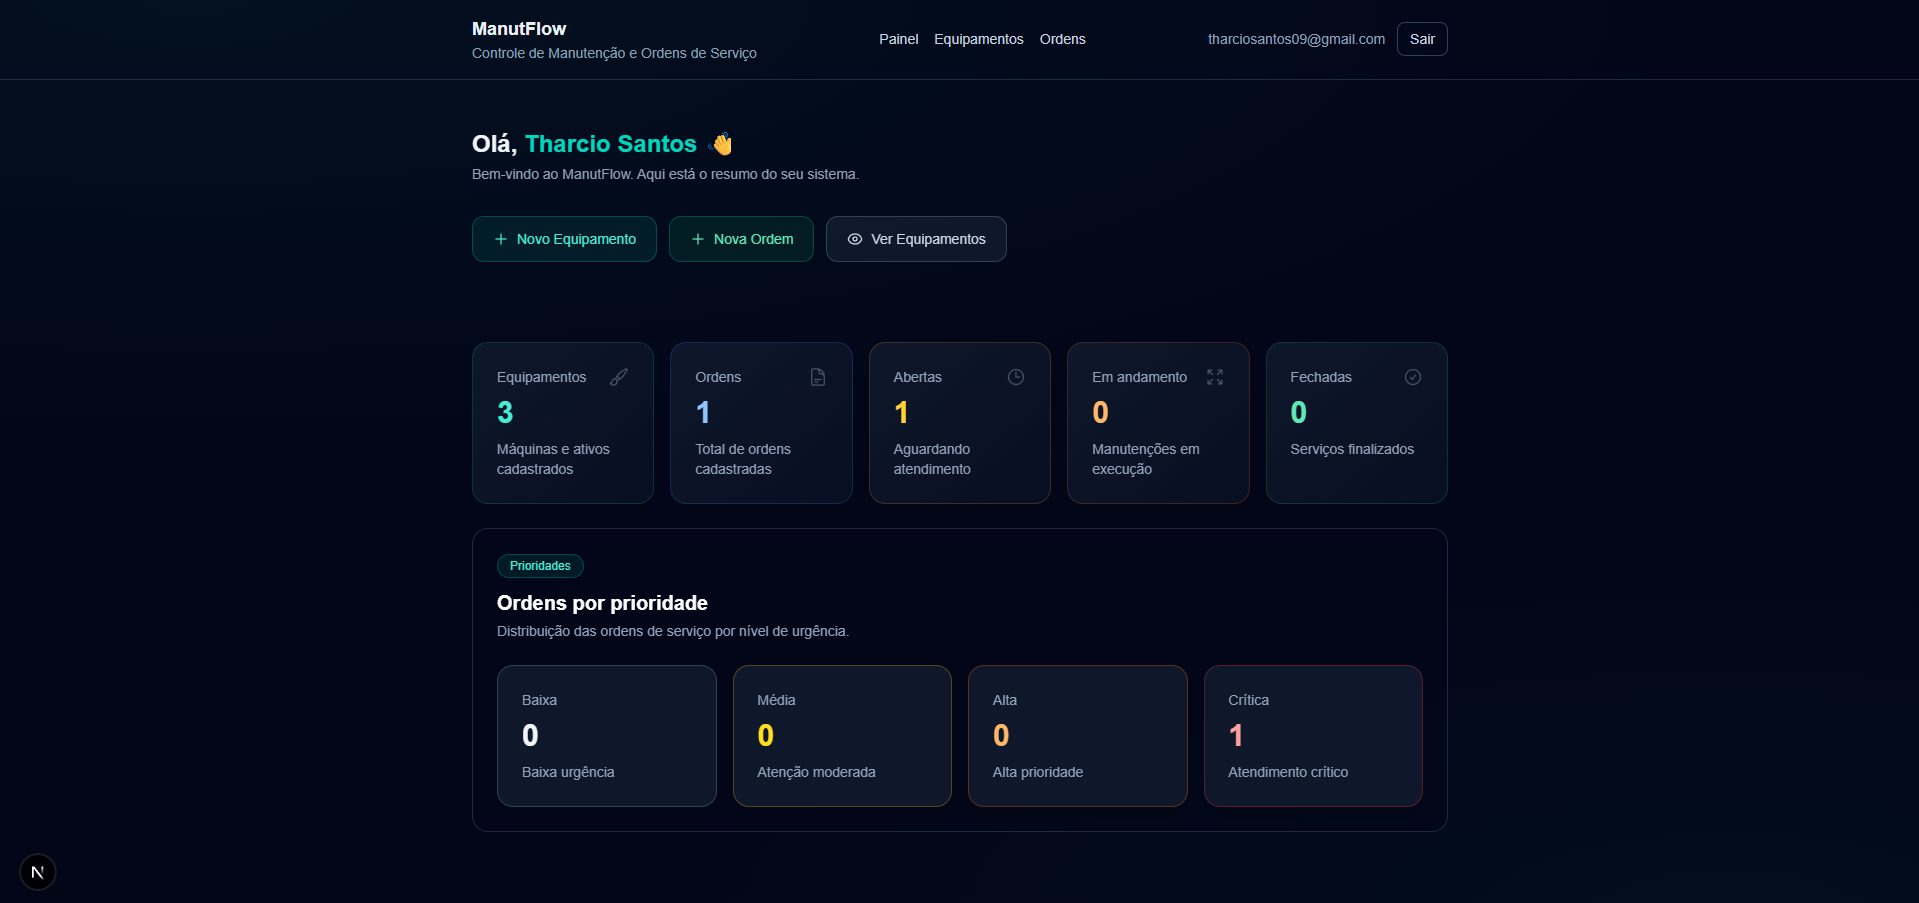
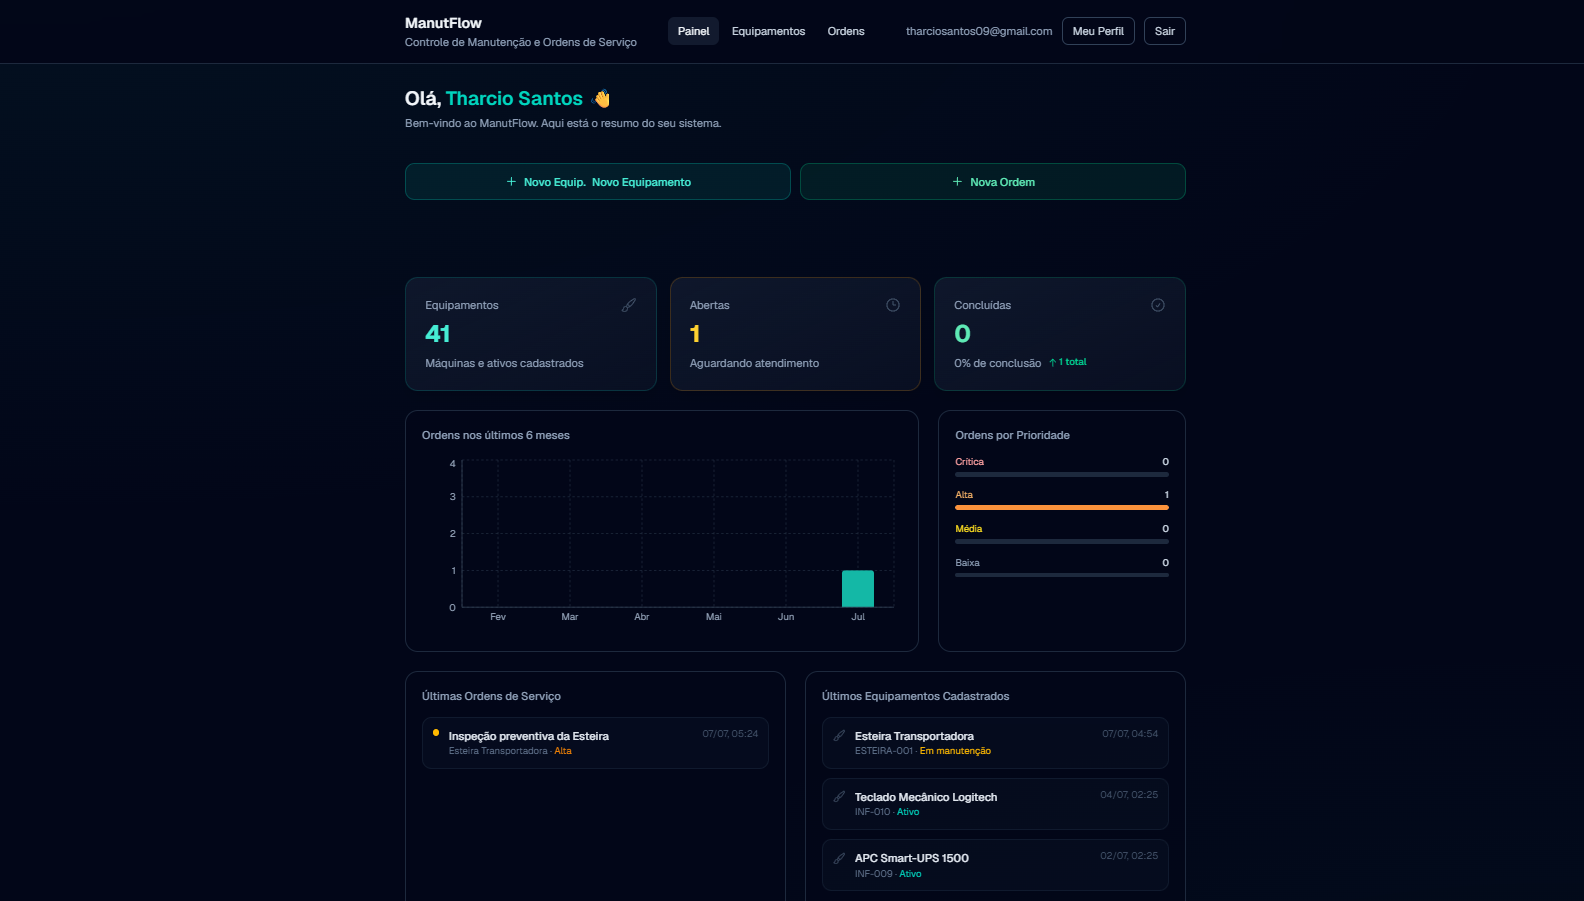
docs: adicionar AGENTS.md, atualizar imagens do portfolio e glow no Hero

diff --git a/src/app/components/sections/Hero.tsx b/src/app/components/sections/Hero.tsx
@@ -48,7 +48,12 @@ const Hero = () => {
         </div>
 
         <div className="stagger-2 mt-7">
-          <h1 className="text-5xl font-extrabold leading-[0.98] tracking-[-0.045em] text-primary-text dark:text-light-text sm:text-6xl md:text-7xl lg:text-[4.5rem]">
+          <h1
+            className="text-5xl font-extrabold leading-[0.98] tracking-[-0.045em] text-primary-text dark:text-light-text sm:text-6xl md:text-7xl lg:text-[4.5rem]"
+            style={{
+              textShadow: '0 0 60px rgba(15,118,110,0.12), 0 0 120px rgba(15,118,110,0.06)',
+            }}
+          >
             Desenvolvo aplicações web full stack com autenticação, APIs e deploy.
           </h1>
         </div>

diff --git a/AGENTS.md b/AGENTS.md
@@ -1,0 +1,246 @@
+# Tharcio Santos — Portfólio
+
+Guia de contexto completo para agentes de IA trabalharem neste projeto.
+
+## Stack
+
+- **Framework:** Next.js 15.3.0 (App Router)
+- **Linguagem:** TypeScript strict (target ES2017), React 19.1.0
+- **Estilização:** Tailwind CSS 3 com tema customizado (light/dark via `next-themes`, `attribute="class"`)
+- **Testes:** Vitest + React Testing Library (jsdom, globals: true)
+- **Lint/Formatação:** ESLint (next/core-web-vitals + prettier) + Prettier
+  - semi: true, singleQuote: true, tabWidth: 2, printWidth: 100
+- **Git Hooks:** Husky + lint-staged (pré-commit: `npx lint-staged`)
+- **CI:** GitHub Actions (`.github/workflows/ci.yml`) — quality → build-and-test
+- **Utilitários:** `class-variance-authority`, `clsx`, `tailwind-merge`, `@vercel/analytics`
+- **Alias:** `@/` → `./src/*`
+
+## Estrutura de pastas
+
+```
+src/
+├── app/
+│   ├── components/
+│   │   ├── sections/     # Hero, Projects, Process, Capabilities, About, Experience, Contact
+│   │   └── ui/            # Button, ProjectCard, Section, RevealOnScroll, ReadingProgressBar, Icons
+│   ├── hooks/             # useScrollReveal, useActiveSection
+│   ├── layout.tsx         # RootLayout com ThemeProvider, Navbar, Footer, SEO, Schema.org
+│   ├── page.tsx           # Home (Hero → Projects → Process → Capabilities → About → Experience → Contact → ClientAnalytics)
+│   ├── error.tsx          # Tratamento de erros
+│   ├── not-found.tsx      # Página 404
+│   ├── globals.css        # Tailwind directives, scrollbar, prefers-reduced-motion
+│   ├── opengraph-image.tsx# Imagem OG dinâmica
+│   ├── robots.ts          # Config robots.txt
+│   └── sitemap.ts         # Sitemap estático
+├── data/                  # about.ts, capabilities.ts, constants.ts, experience.ts, projects.ts
+│   └── __tests__/         # Testes dos dados
+└── lib/                   # utils.ts (função cn)
+```
+
+## Tipos de dados
+
+### Project (`src/data/projects.ts`)
+
+```typescript
+type Project = {
+  title: string;
+  shortTitle: string;
+  description: string;
+  imageUrl?: string;
+  imageAlt?: string;
+  githubUrl: string;
+  demoUrl?: string;
+  demoLabel?: string;
+  tags: string[];
+  kind: 'featured' | 'building' | 'secondary';
+  highlights?: string[];
+  casePoints?: { label: string; value: string }[];
+  outcome?: string;
+  technicalHighlight?: string;
+};
+```
+
+### Capability (`src/data/capabilities.ts`)
+
+```typescript
+type Capability = {
+  title: string;
+  description: string;
+  technologies: string[];
+  usedIn: string[];
+};
+```
+
+### ExperienciaAnterior (`src/data/experience.ts`)
+
+```typescript
+type ExperienciaAnterior = {
+  period: string;
+  role: string;
+  org: string;
+  summary: string;
+};
+```
+
+### Constantes (`src/data/constants.ts`)
+
+```typescript
+EMAIL = 'tharciosantos09@gmail.com';
+GITHUB_URL = 'https://github.com/tharciosantos';
+LINKEDIN_URL = 'https://www.linkedin.com/in/tharcio-santos-dev/';
+SECTION_IDS = {
+  projetos: 'projetos',
+  processo: 'processo',
+  habilidades: 'habilidades',
+  'sobre-mim': 'sobre-mim',
+  experiencia: 'experiencia',
+  contato: 'contato',
+} as const;
+
+navLinks = [
+  { href: '#projetos', label: 'Projetos' },
+  { href: '#processo', label: 'Processo' },
+  { href: '#habilidades', label: 'Habilidades' },
+  { href: '#sobre-mim', label: 'Sobre' },
+  { href: '#contato', label: 'Contato' }, // CTA
+];
+```
+
+## Hooks
+
+### `useScrollReveal<T>(threshold = 0.12)`
+
+- Detecta quando um elemento entra na viewport via IntersectionObserver
+- Respeita `prefers-reduced-motion` (marca como visível imediatamente)
+- Retorna `{ ref, visible }`
+
+### `useActiveSection(ids: readonly string[])`
+
+- Scroll spy: rastreia qual seção está ativa baseado na posição do scroll
+- Usa IntersectionObserver com `rootMargin: '-40% 0px -55% 0px'`
+- Retorna o `id` da seção ativa (string)
+
+## Convenções de código
+
+### Componentes
+
+- **`'use client'`** apenas quando necessário (hooks, interatividade, eventos)
+- **forwardRef + displayName** em componentes de UI reutilizáveis (ex: Button)
+- **Props estendem** `React.HTMLAttributes<HTMLElement>` + `VariantProps` para componentes nativos
+- **cn()** para combinar classes: `cn(buttonVariants({ variant, size }), className)`
+- **cva (class-variance-authority)** para variantes de estilo (variant, size)
+- Componentes de seção sem `'use client'` quando possível (server components)
+
+### Utilitários
+
+- `cn(...inputs)` — combina `clsx` + `tailwind-merge` para classes condicionais
+- `buttonVariants({ variant, size })` — cva com variantes:
+  - variant: `'default'` | `'outline'` | `'ghost'`
+  - size: `'sm'` | `'default'` | `'lg'`
+
+### Ícones disponíveis
+
+`src/app/components/ui/Icons.tsx` exporta:
+ArrowRightIcon, ArrowUpIcon, DocumentIcon, MenuIcon, CloseIcon,
+SunIcon, MoonIcon, MailIcon, GithubIcon, LinkedinIcon,
+ExternalLinkIcon, CheckIcon, CopyIcon, CodeIcon, DatabaseIcon,
+RocketIcon, TechBadgeIcon (requer prop `label`)
+
+## Estilos
+
+### Tema
+
+- **next-themes** com `attribute="class"` (suporte ao sistema)
+- Classes condicionais: `dark:` para tema escuro
+
+### Cores customizadas (tailwind.config.js)
+
+- **Background:** `bg-dark-bg` (#0b1114), `bg-dark-card` (#111a1e), `bg-light-bg` (#f5f7f6)
+- **Texto:** `text-primary-text` (#12201f), `text-light-text` (#edf6f3), `text-secondary-text` (#52615f)
+- **Bordas:** `border-border-light` (#dce5e2), `border-border-dark` (#263438)
+- **Accent:** `accent` (#0f766e), `accent-hover`, `accent-light`, `accent-subtle`, `accent-border`
+
+### Fontes
+
+- **Sans/body:** Inter (`var(--font-inter)`)
+- **Heading:** Outfit (`var(--font-outfit)`)
+- Definidas em `layout.tsx` via `next/font/google`
+
+### Animações customizadas
+
+- `fade-in`, `fade-up`, `fade-down` — entrada com opacidade e translate
+- `scale-x-in` — escala horizontal
+- `ping` — efeito pulsante
+- `stagger-in` — entrada em cascata
+- `reveal-up` — revelação com translateY
+- `gradient-shift` — deslocamento de gradiente
+- **Stagger classes:** `stagger-1` a `stagger-5` (100ms delay cada)
+
+### Componentes de animação
+
+- **RevealOnScroll:** wrapper que aplica animação ao entrar na viewport
+  - Props: `children`, `className`, `as` (tag HTML, padrão `div`), `delay`
+- **prefers-reduced-motion:** todas as animações desativadas quando ativo
+
+## Navegação (Navbar)
+
+- **Navbar** (`src/app/components/Navbar.tsx`):
+  - `'use client'`
+  - Detecta scroll para alterar estilo (borda/fundo) via estado `scrolled`
+  - Usa `useActiveSection` para destacar link da seção visível
+  - Links de navegação de `navLinks` (constants.ts)
+  - Botão CTA filtrado do array de links
+  - `ThemeSwitcher` para alternar light/dark
+  - `MobileNav` para menu responsivo em telas pequenas
+
+## Acessibilidade
+
+- **Skip link:** `.skip-link` que aparece ao receber foco (pular navegação)
+- **Focus-visible:** anel de foco estilizado com variável `accent` / `accent-light`
+- **Reduced motion:** `@media (prefers-reduced-motion: reduce)` desativa animações
+- **ARIA:** labels e atributos nos componentes interativos
+- **Scrollbar customizada:** para webkit (modo claro/escuro)
+
+## SEO
+
+- **Metadata** completa no layout: title (template `%s | Tharcio Santos`), description, keywords, authors, Open Graph, Twitter cards
+- **Schema.org** JSON-LD: Person, WebSite, ProfilePage
+- **Sitemap:** `sitemap.ts` com URLs principais
+- **Robots:** `robots.ts` (permite tudo)
+- **Open Graph image:** `opengraph-image.tsx` dinâmico
+
+## CI/CD e Quality Gates
+
+### GitHub Actions (`.github/workflows/ci.yml`)
+
+Executado em push/PR para `main` com Node.js 20:
+
+**Job 1 — quality:**
+
+1. `npm ci` (install)
+2. `npm run format:check` (Prettier — verificação)
+3. `npm run lint` (ESLint)
+4. `npx tsc --noEmit` (Type check)
+
+**Job 2 — build-and-test** (após quality):
+
+1. `npm run test:run` (Vitest)
+2. `npm run build` (Next.js build)
+
+### Husky + lint-staged
+
+- **pre-commit:** `npx lint-staged` (formata e faz lint dos arquivos staged)
+
+## Scripts
+
+```bash
+npm run dev          # next dev
+npm run build        # next build
+npm run start        # next start
+npm run test         # vitest (watch mode)
+npm run test:run     # vitest (run once)
+npm run lint         # eslint src
+npm run format       # prettier --write .
+npm run format:check # prettier --check .
+n
+```
